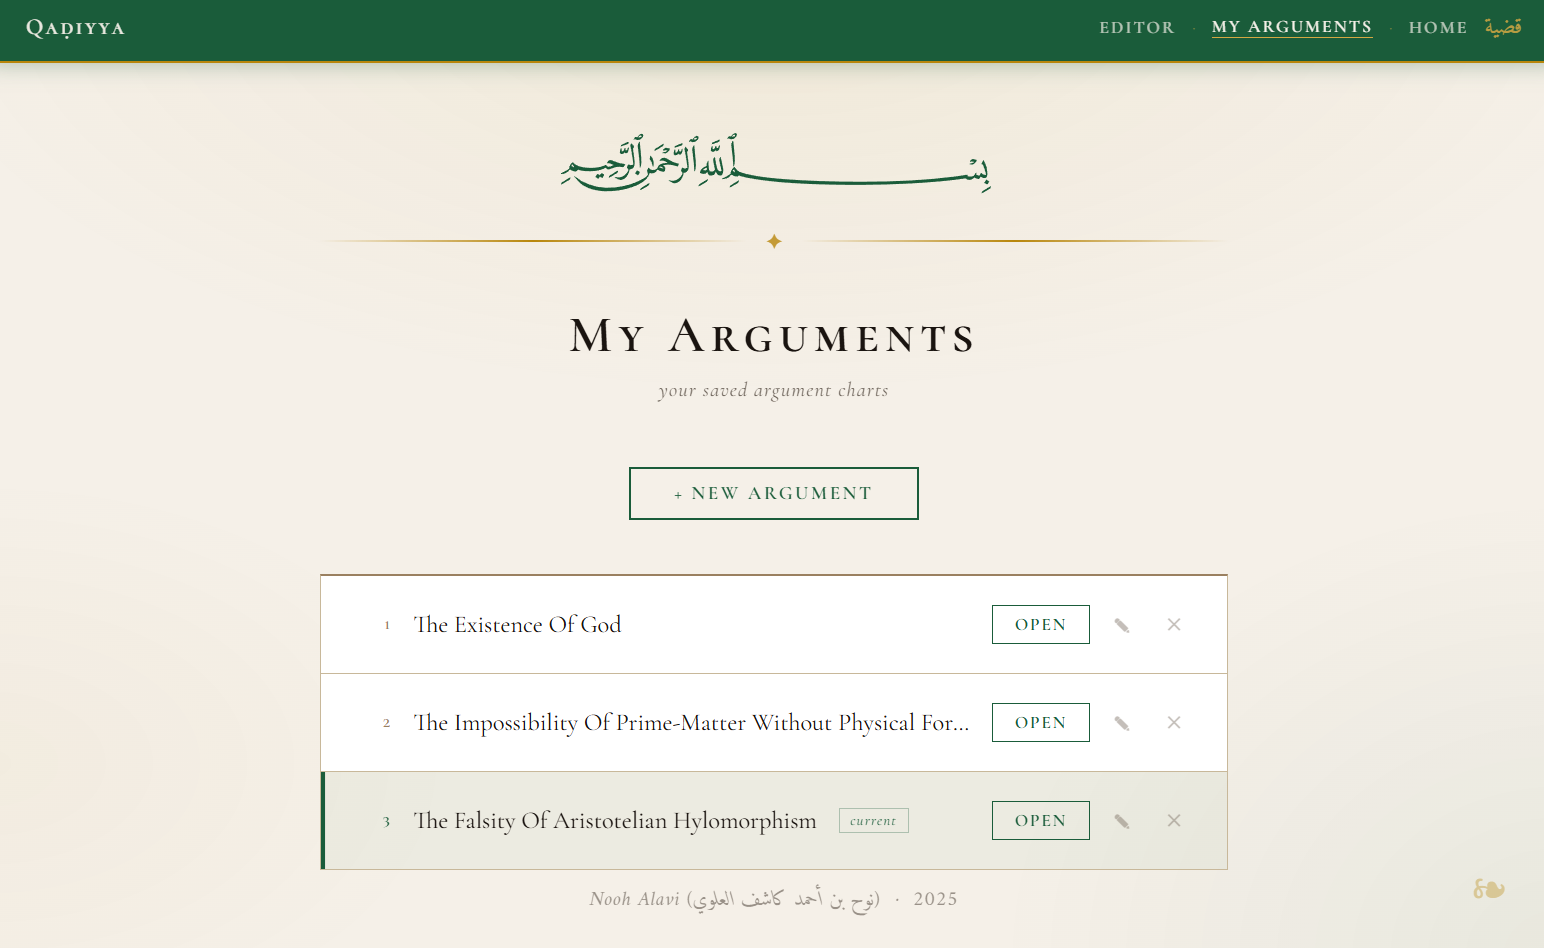
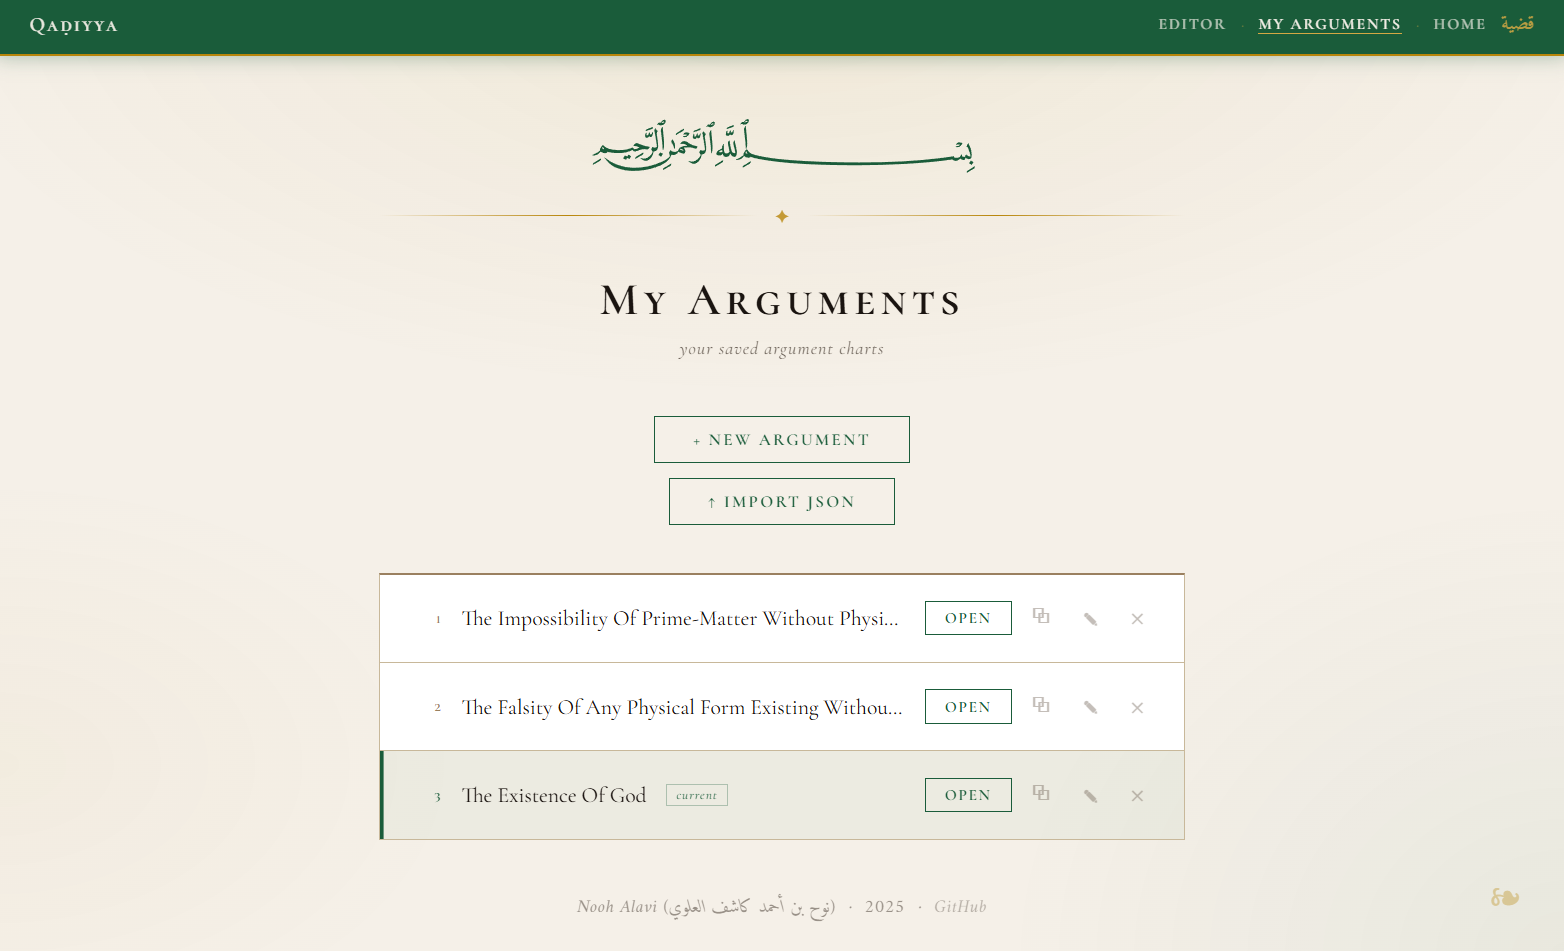
Updated README

diff --git a/README.md b/README.md
@@ -21,7 +21,12 @@
   1. [💡 Inspiration Behind Qaḍiyya](#-inspiration-behind-qaḍiyya)
   2. [🧠 Project Goals](#-project-goals)
   3. [📦 Current Features](#-current-features)
+     1. [🧩 Argument Construction](#-argument-construction)
+     2. [💾 Project Management](#-project-management)
+     3. [📤 Export](#-export)
+     4. [🎨 Design & UX](#-design--ux)
   4. [🏗 Tech Stack & Architecture](#-tech-stack--architecture)
+  5. [📜 Credits & Acknowledgements](#-credits--acknowledgements)
 </details>
 <br/>
 
@@ -33,7 +38,7 @@ Named after the Arabic *manṭiqī* term for a proposition—a statement that ca
 
 Qaḍiyya helps the student transform those implicit structures into clear, interactive charts, allowing them to see how premises connect, how sub-arguments branch, and how a conclusion necessarily emerges from its supporting statements.
 
-<img src="static/screenshots/demo.gif" alt="Screenshot of Qaḍiyya's homepage"/>
+<img src="static/screenshots/demo.gif" alt="A demo of Qaḍiyya"/>
 
 <small>*Pictured above: a demo of **Qaḍiyya***</small>
 
@@ -170,6 +175,10 @@ The codebase is structured for future enhancements that support deeper study, in
 
 - **Export as Image (PNG)** – Export a clean, styled image of the argument with parchment background and full typography.
 
+<img src="static/screenshots/screenshot_export_btn.png" alt="The 'Export' button from **Qaḍiyya**'s argument editor page"/>
+
+<small>*Pictured above: the "Export" button from **Qaḍiyya**'s argument editor page.*</small>
+
 ### 🎨 Design & UX
 - **Manuscript-Inspired UI** – Parchment tones, deep ink, emerald green, and gold accents. Typography uses Cormorant SC (titles/labels), EB Garamond (body), and Amiri (Arabic text).
 
@@ -212,6 +221,8 @@ The codebase is structured for future enhancements that support deeper study, in
 - **MantiqMap** — Manages the tree: breadth-first numbering, chart representation generation, node lookup, and JSON serialization/deserialization.
 
 - **Session-keyed JSON files** — One `.json` file per browser session in a `sessions/` directory, containing all of that user's projects and their active project ID.
+
+- **Backups & File Sharing** — The JSON-ified arguments can be downloaded via the "Export" button, and can then be uploaded back into the editor for further use. This is useful both for (1) locally backing up one's work, and for (2) sharing one's projects with others for the sake of collaboration (or critique!).
 
 ### Installation
 
